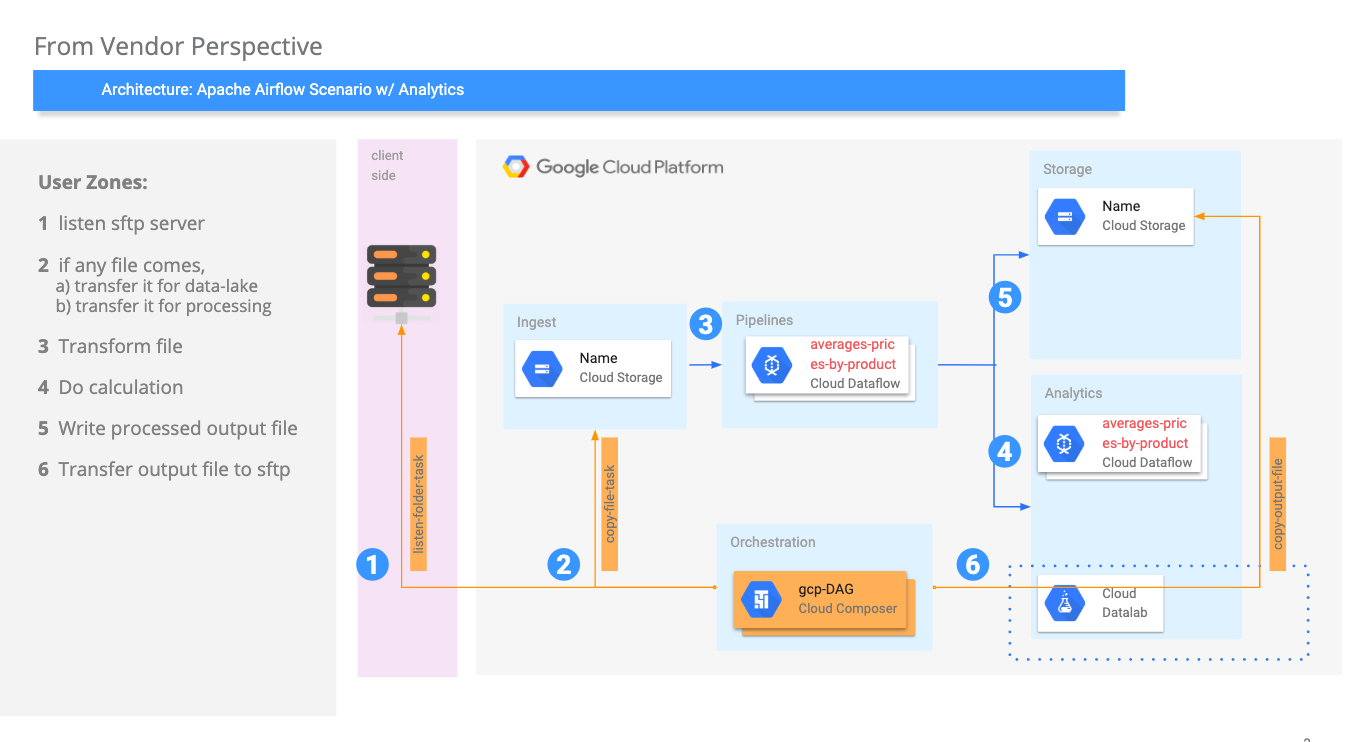
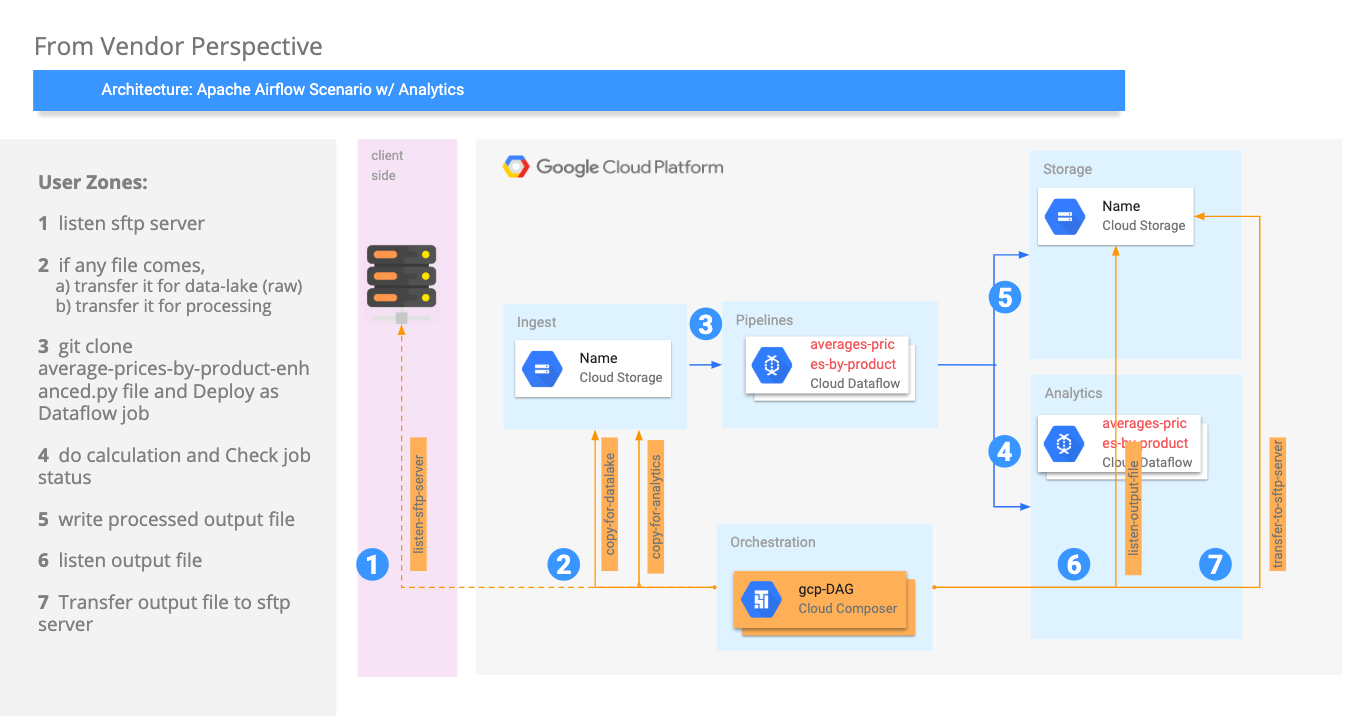
average-product-prices initialize

diff --git a/product-analytics/product-analytics-DAG.py b/product-analytics/product-analytics-DAG.py
@@ -1,0 +1,57 @@
+import logging
+
+from airflow import DAG
+from airflow.operators.bash_operator import BashOperator
+from airflow.contrib.sensors.sftp_sensor import SFTPSensor
+from airflow.operators.python_operator import PythonOperator
+from datetime import datetime, timedelta
+
+#
+default_args = {
+    'owner': 'airflow',
+    'depends_on_past': False,
+    'start_date': datetime(2019, 1, 1),
+    'email': ['tansudasli@gmail.com'],
+    'email_on_failure': False,
+    'email_on_retry': False,
+    'retries': 2,
+    'retry_delay': timedelta(minutes=5),
+    # 'queue': 'bash_queue',
+    # 'pool': 'backfill',
+    # 'priority_weight': 10,
+    # 'end_date': datetime(2016, 1, 1),
+}
+
+with DAG('product-analytics', default_args=default_args, schedule_interval=timedelta(minutes=10)) as dag:
+
+    # TODO: not implemented for now
+    # listen customers FTP server folder w/ sensor
+    # define sftp-default connection in Airflow UI
+    t1 = SFTPSensor(
+        task_id='listen-sftp-server',
+        bash_command=''
+    )
+
+    # TODO: not implemented for now
+    # copy from sftp to gcp storage
+    t2 = BashOperator(
+        task_id='copy-for-datalake',
+        bash_command=''
+    )
+
+    # copy from gcs to process bucket for analytical calculations
+    t3 = BashOperator(
+        task_id='copy-for-analytics',
+        bash_command=''
+    )
+
+    # git clone average-prices-by-product-enhanced.py file
+    # deploy to GCP dataflow as a beam job
+
+    # check GCP dataflow job status
+
+    # Listen output folder w/ sensor
+    # transfer output file to SFTP server
+
+
+    t3 >> t2 >> t1
